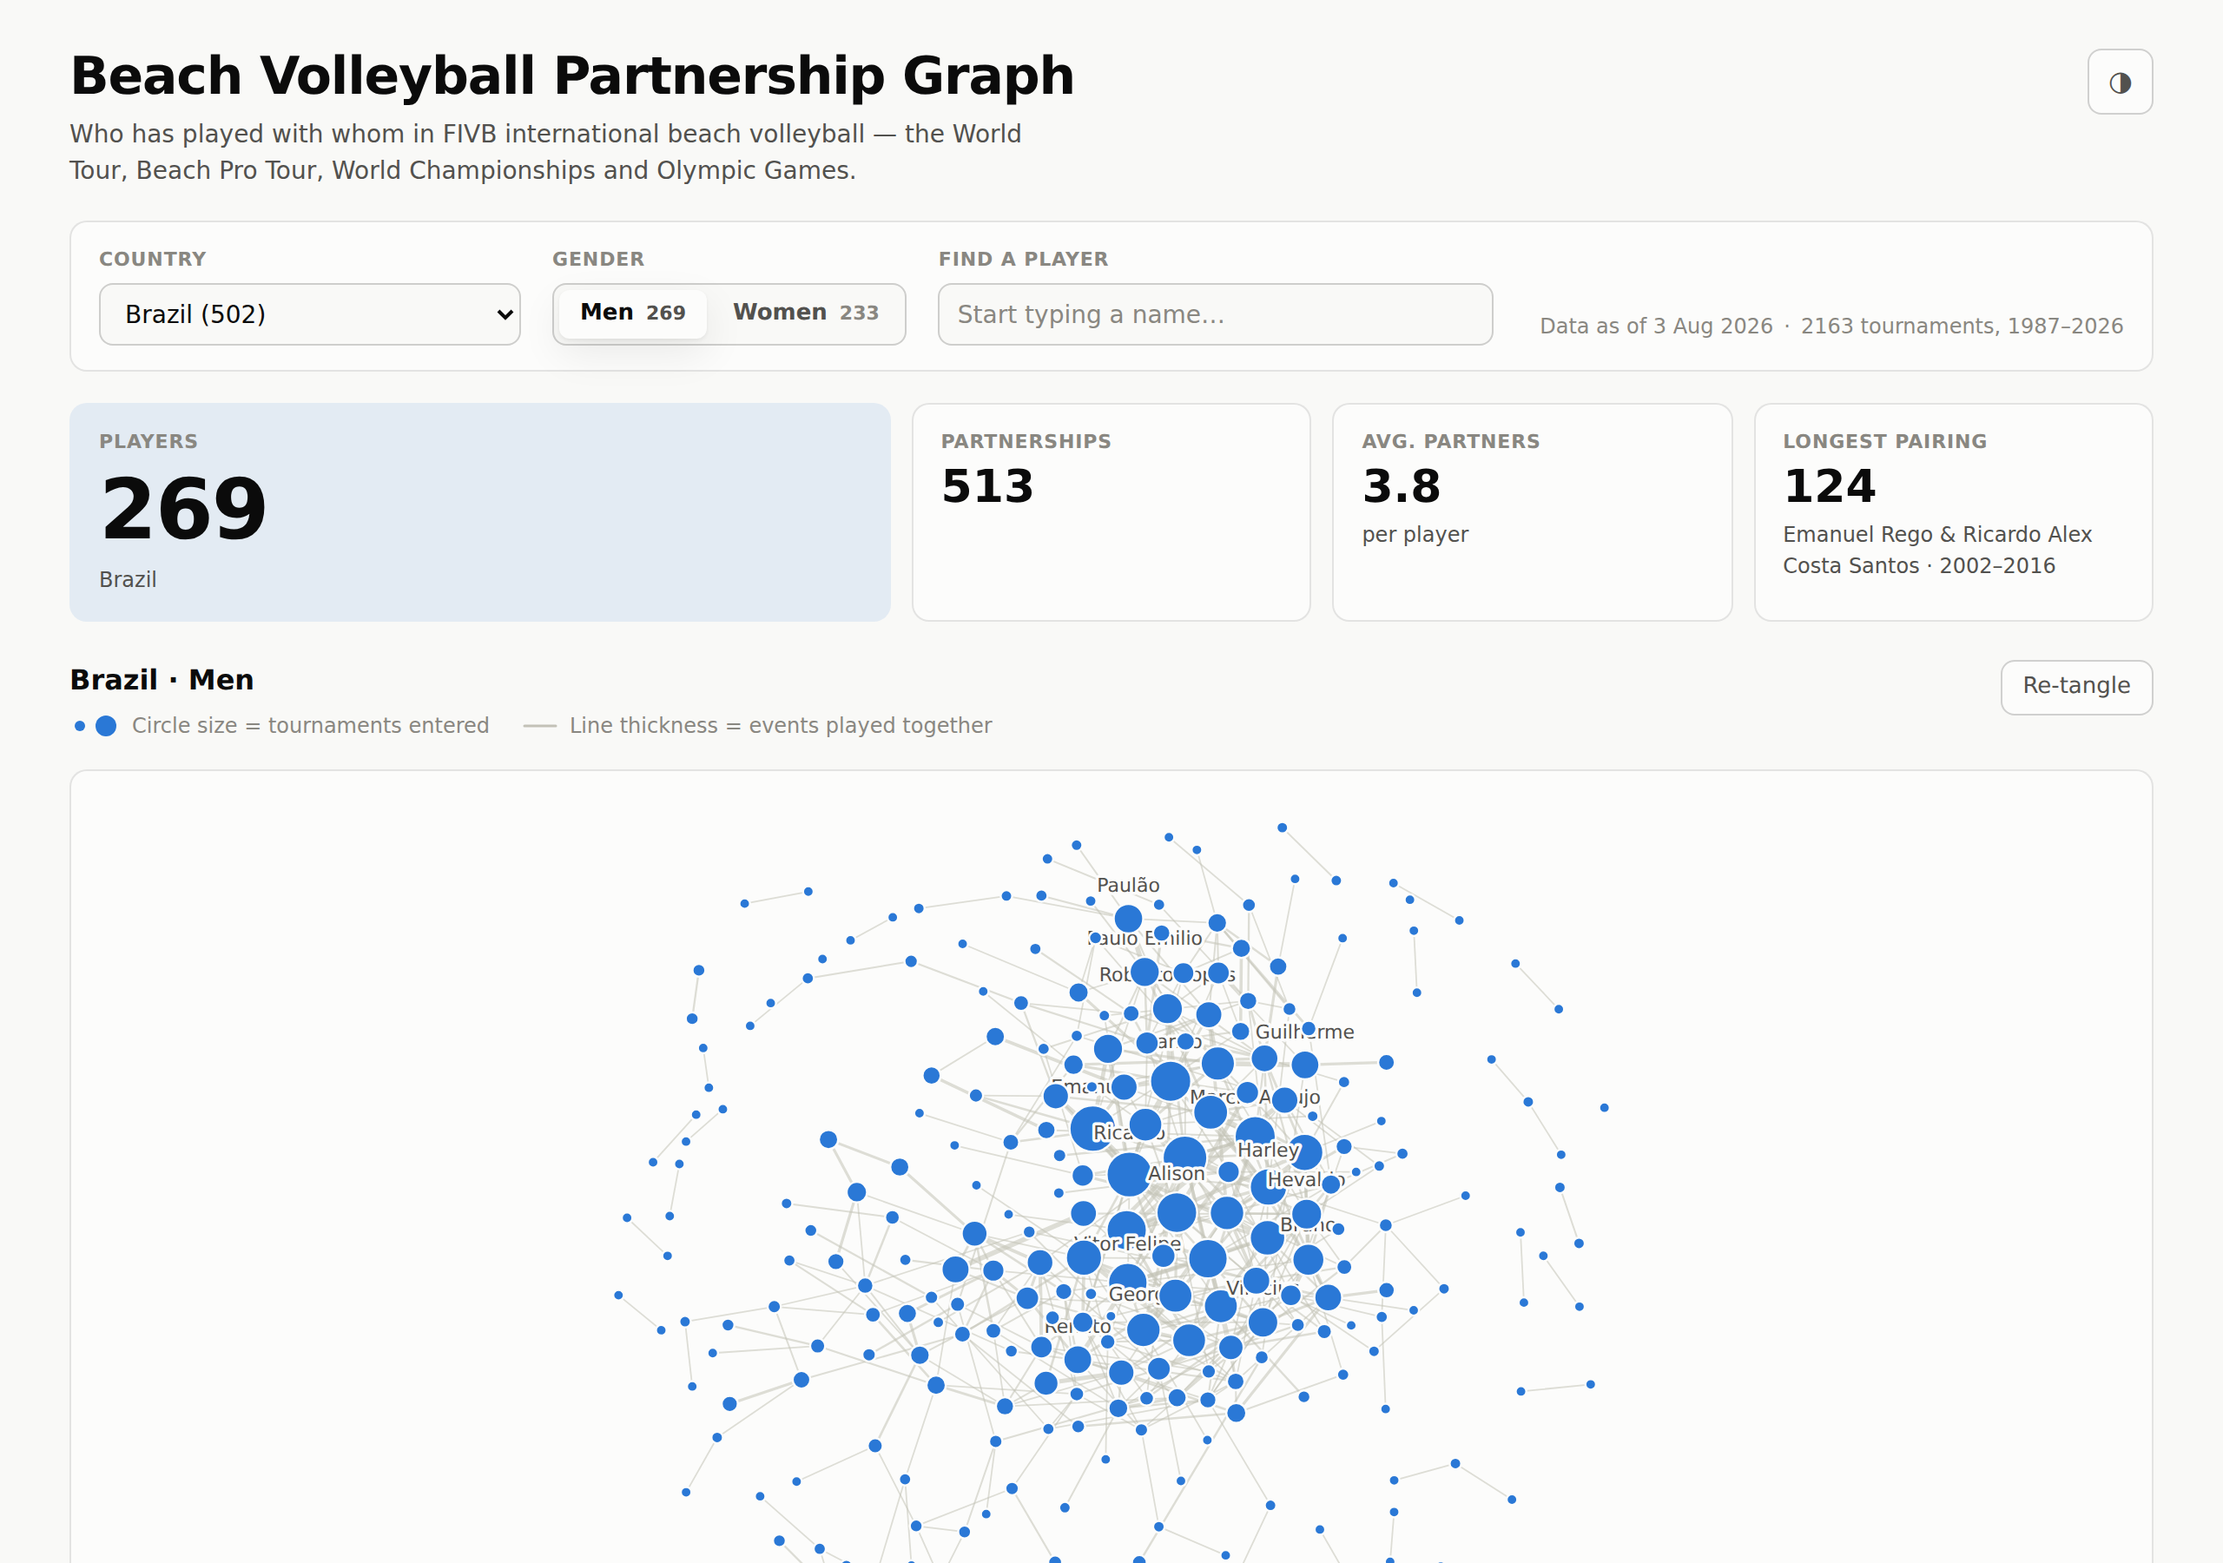
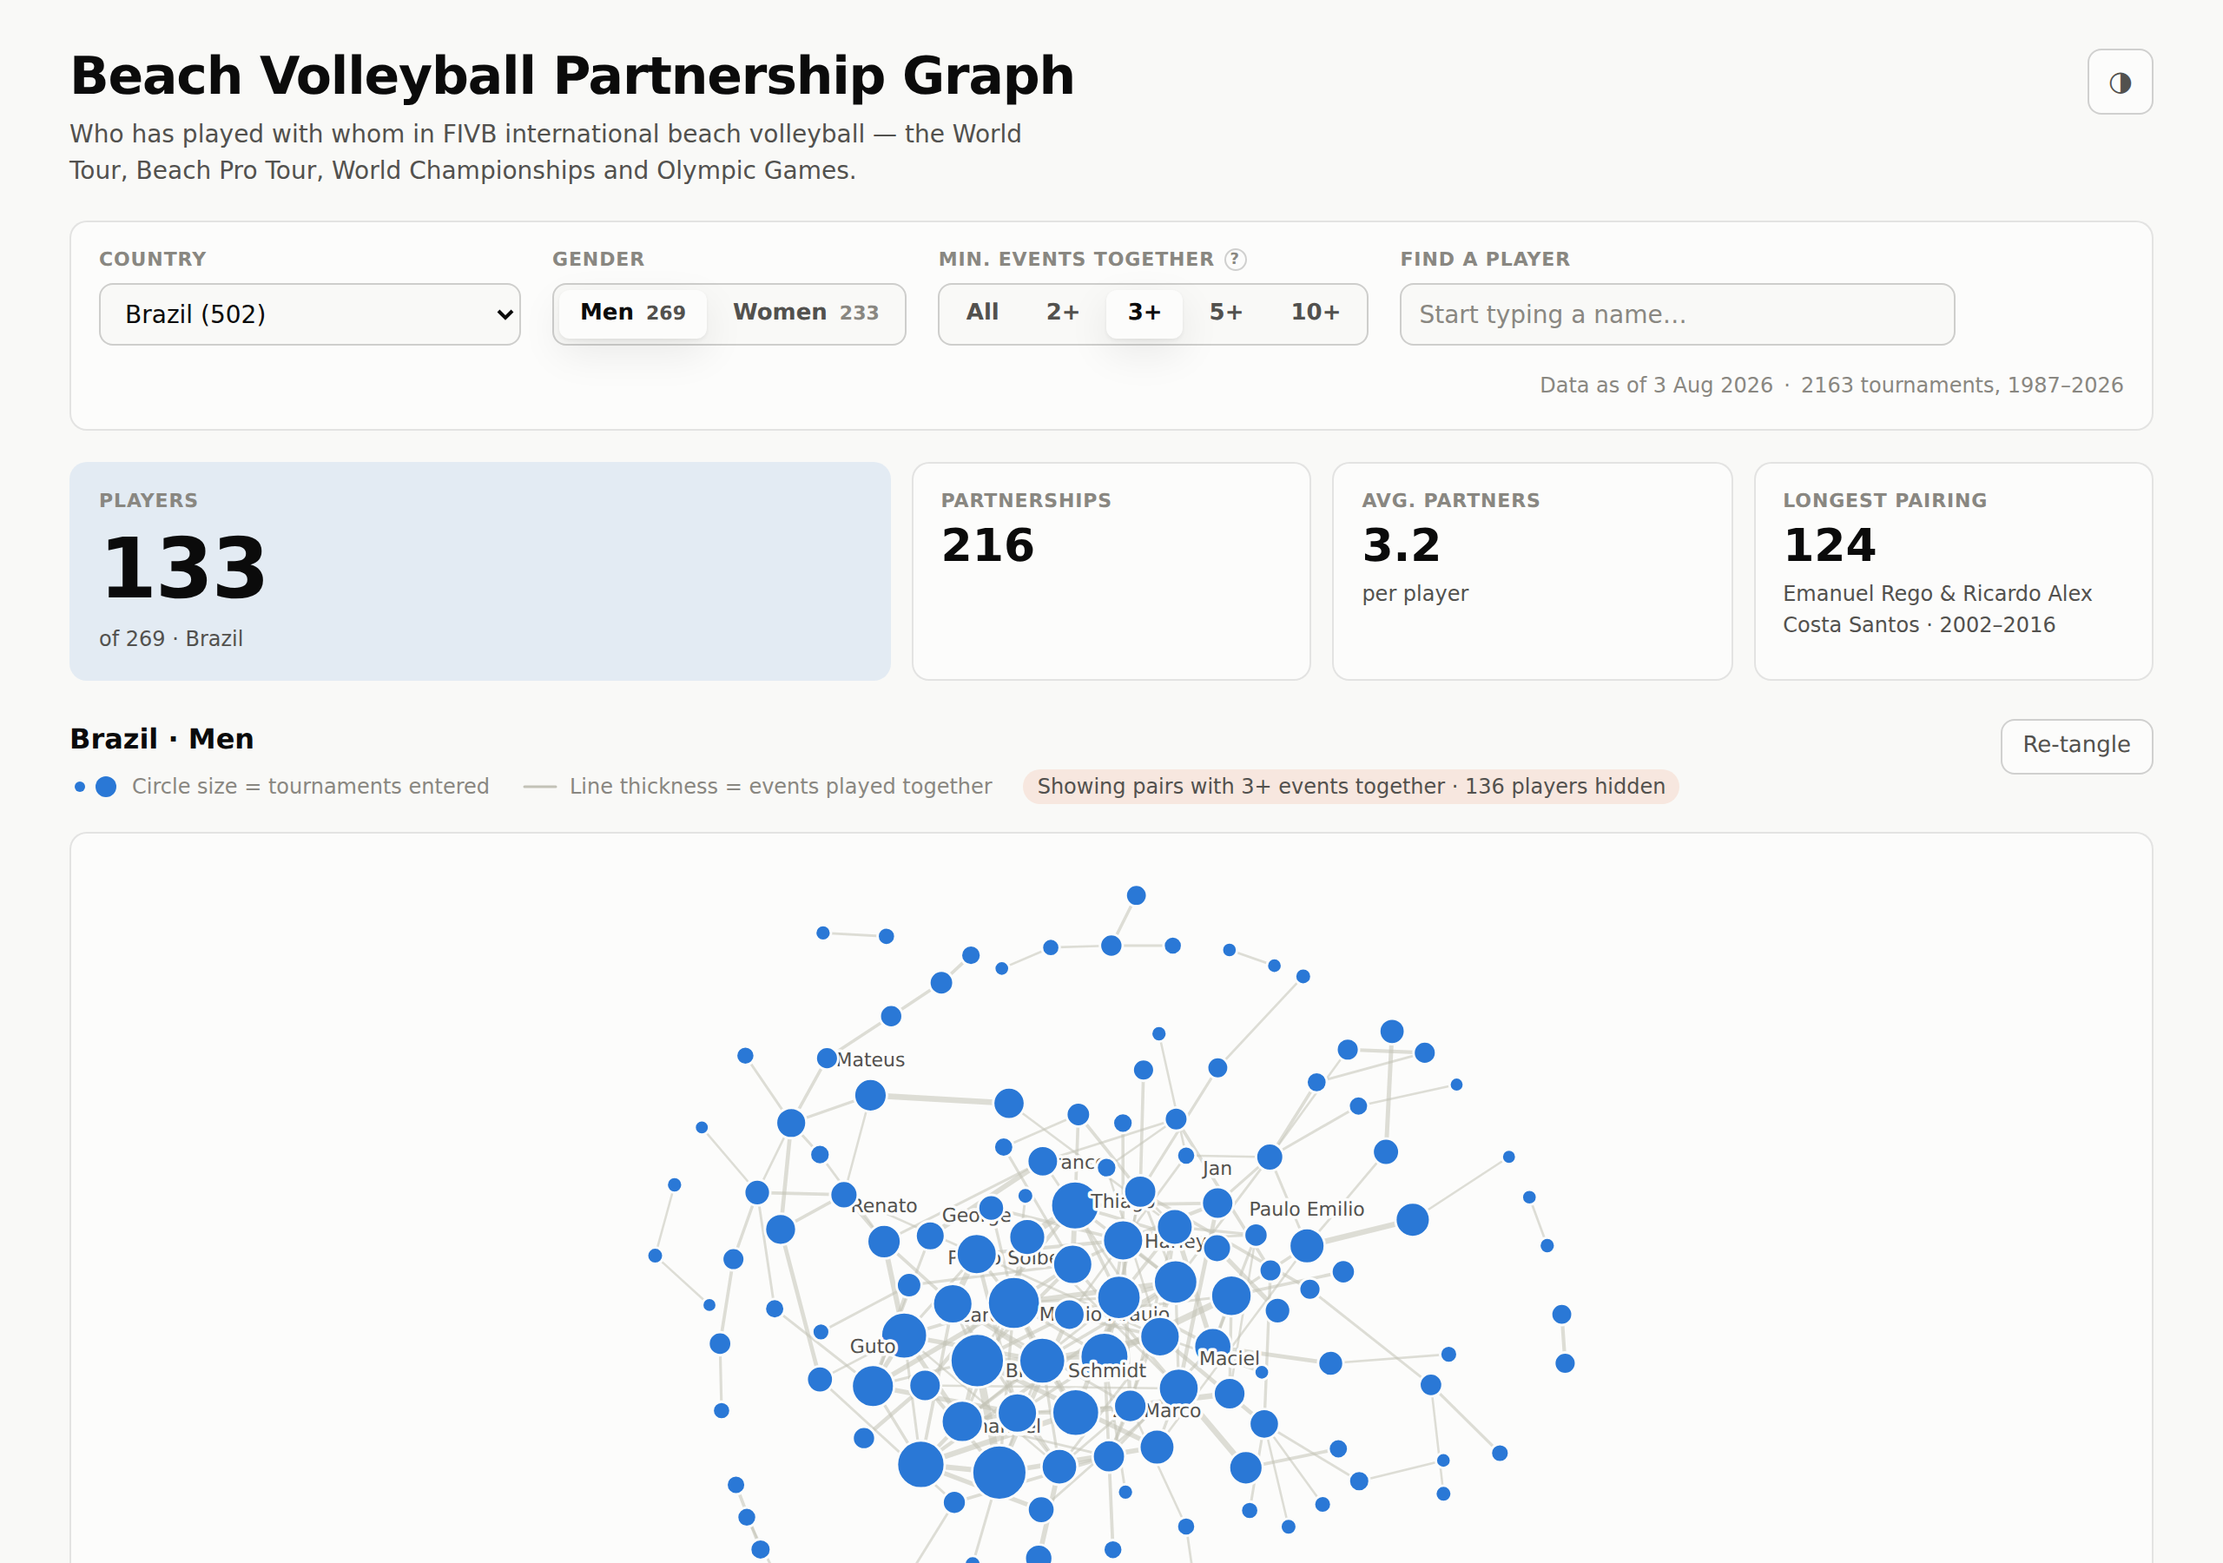
Add partnership-strength filter
Hide pairs below a threshold of shared tournaments, to strip one-off
partnerships from the graph. Presets: All / 2+ / 3+ / 5+ / 10+.

The archive is dominated by one-off entrants — 53.8% of players have
exactly one partner and 37.4% entered exactly one tournament ever, so the
median player has one partner and the global mean is only 2.4. Restricted
to players with 10+ tournaments the mean is 5.3, which is what the graph
looks like once the tail is filtered out.

Applied once in App and passed down, so graph, stat tiles, profile partner
lists and the table always agree. Players left with no remaining
partnership drop out too, otherwise raising the threshold just leaves a
field of unconnected dots. Node size still encodes each player's full
career tournament count — that is a property of the player, not of the
edges currently shown, and rescaling it on filter would misstate careers.

The threshold is reflected in the URL so a filtered view is linkable, and
a badge in the legend reports how many players are hidden.

diff --git a/web/src/App.tsx b/web/src/App.tsx
@@ -4,6 +4,7 @@ import { GENDERS } from './schema';
 import { fetchGraph, fetchManifest, fetchPlayers } from './lib/api';
 import { flagEmoji, plural } from './lib/format';
 import { Controls } from './components/Controls';
+import type { GraphEdge, GraphNode } from './schema';
 import { PartnershipGraph } from './components/PartnershipGraph';
 import { PlayerCard, type PartnerRow } from './components/PlayerCard';
 import { StatTiles, type Stat } from './components/StatTiles';
@@ -15,14 +16,21 @@ import './App.css';
 const DEFAULT_COUNTRY = 'BRA';
 
 /** Read/write the current slice in the URL so a view is linkable. */
-function readUrl(): { country: string | null; gender: Gender | null; player: number | null } {
+function readUrl(): {
+  country: string | null;
+  gender: Gender | null;
+  player: number | null;
+  min: number | null;
+} {
   const params = new URLSearchParams(location.search);
   const gender = params.get('gender');
   const player = Number(params.get('player'));
+  const min = Number(params.get('min'));
   return {
     country: params.get('country'),
     gender: gender === 'M' || gender === 'W' ? gender : null,
     player: Number.isFinite(player) && player > 0 ? player : null,
+    min: Number.isFinite(min) && min >= 1 ? min : null,
   };
 }
 
@@ -38,6 +46,8 @@ export default function App() {
   const [selectedId, setSelectedId] = useState<number | null>(initial.player);
   const [search, setSearch] = useState('');
   const [layoutKey, setLayoutKey] = useState(0);
+  /** Hide partnerships below this many shared tournaments. 1 = show all. */
+  const [minTogether, setMinTogether] = useState(initial.min ?? 1);
 
   // --- manifest ------------------------------------------------------------
   useEffect(() => {
@@ -97,19 +107,45 @@ export default function App() {
     const params = new URLSearchParams();
     params.set('country', country);
     params.set('gender', gender);
+    if (minTogether > 1) params.set('min', String(minTogether));
     if (selectedId) params.set('player', String(selectedId));
     history.replaceState(null, '', `?${params}`);
-  }, [country, gender, selectedId]);
+  }, [country, gender, selectedId, minTogether]);
 
   // --- derived -------------------------------------------------------------
+  /**
+   * The partnership-strength filter. Edges below the threshold are dropped, and
+   * players left with no remaining partnership drop out with them — otherwise
+   * raising the threshold just leaves a field of unconnected dots.
+   *
+   * Node size still reflects each player's full career tournament count: that
+   * is a property of the player, not of the edges being shown.
+   */
+  const { nodes: visibleNodes, edges: visibleEdges } = useMemo((): {
+    nodes: GraphNode[];
+    edges: GraphEdge[];
+  } => {
+    const allNodes = graph?.nodes ?? [];
+    const allEdges = graph?.edges ?? [];
+    if (minTogether <= 1) return { nodes: allNodes, edges: allEdges };
+
+    const edges = allEdges.filter((e) => e.t >= minTogether);
+    const connected = new Set<number>();
+    for (const e of edges) {
+      connected.add(e.a);
+      connected.add(e.b);
+    }
+    return { nodes: allNodes.filter((n) => connected.has(n.id)), edges };
+  }, [graph, minTogether]);
+
   const nodesById = useMemo(
-    () => new Map((graph?.nodes ?? []).map((n) => [n.id, n])),
-    [graph],
+    () => new Map(visibleNodes.map((n) => [n.id, n])),
+    [visibleNodes],
   );
 
   const partnersByPlayer = useMemo(() => {
     const map = new Map<number, PartnerRow[]>();
-    for (const edge of graph?.edges ?? []) {
+    for (const edge of visibleEdges) {
       const a = nodesById.get(edge.a);
       const b = nodesById.get(edge.b);
       if (!a || !b) continue;
@@ -120,7 +156,7 @@ export default function App() {
     }
     for (const list of map.values()) list.sort((x, y) => y.t - x.t || x.node.name.localeCompare(y.node.name));
     return map;
-  }, [graph, nodesById]);
+  }, [visibleEdges, nodesById]);
 
   const detailsById = useMemo(
     () => new Map((details?.players ?? []).map((p) => [p.id, p])),
@@ -132,17 +168,17 @@ export default function App() {
 
   const tableRows: TableRow[] = useMemo(() => {
     const term = search.trim().toLowerCase();
-    return (graph?.nodes ?? [])
+    return visibleNodes
       .filter((n) => !term || n.name.toLowerCase().includes(term))
       .map((n) => {
         const partners = partnersByPlayer.get(n.id) ?? [];
         return { ...n, partners: partners.length, topPartner: partners[0]?.node.name ?? null };
       });
-  }, [graph, partnersByPlayer, search]);
+  }, [visibleNodes, partnersByPlayer, search]);
 
   const stats: Stat[] = useMemo(() => {
-    const nodes = graph?.nodes ?? [];
-    const edges = graph?.edges ?? [];
+    const nodes = visibleNodes;
+    const edges = visibleEdges;
     if (nodes.length === 0) return [];
     const degrees = nodes.map((n) => (partnersByPlayer.get(n.id)?.length ?? 0));
     const avg = degrees.reduce((a, b) => a + b, 0) / nodes.length;
@@ -159,10 +195,16 @@ export default function App() {
         detail: longest ? `${longestNames} · ${longest.f}–${longest.l}` : undefined,
       },
     ];
-  }, [graph, partnersByPlayer, nodesById]);
+  }, [visibleNodes, visibleEdges, partnersByPlayer, nodesById]);
 
+  const totalNodes = graph?.nodes.length ?? 0;
+  const hidden = totalNodes - visibleNodes.length;
   const hero: Stat | undefined = graph
-    ? { label: 'Players', value: graph.nodes.length.toLocaleString(), detail: `${graph.countryName}` }
+    ? {
+        label: 'Players',
+        value: visibleNodes.length.toLocaleString(),
+        detail: hidden > 0 ? `of ${totalNodes.toLocaleString()} · ${graph.countryName}` : graph.countryName,
+      }
     : undefined;
 
   const selectedNode = selectedId === null ? null : (nodesById.get(selectedId) ?? null);
@@ -214,6 +256,8 @@ export default function App() {
           }}
           search={search}
           onSearch={setSearch}
+          minTogether={minTogether}
+          onMinTogether={setMinTogether}
         />
       )}
 
@@ -241,6 +285,12 @@ export default function App() {
                   </svg>
                   Line thickness = events played together
                 </span>
+                {hidden > 0 && (
+                  <span className="key filtered">
+                    Showing pairs with {minTogether}+ events together · {hidden.toLocaleString()}{' '}
+                    {hidden === 1 ? 'player' : 'players'} hidden
+                  </span>
+                )}
               </p>
             </div>
             <button type="button" className="relayout" onClick={() => setLayoutKey((k) => k + 1)}>
@@ -248,16 +298,20 @@ export default function App() {
             </button>
           </div>
 
-          {graph && graph.nodes.length > 0 ? (
+          {visibleNodes.length > 0 ? (
             <PartnershipGraph
-              nodes={graph.nodes}
-              edges={graph.edges}
+              nodes={visibleNodes}
+              edges={visibleEdges}
               selectedId={selectedId}
               onSelect={selectPlayer}
               layoutKey={layoutKey}
             />
           ) : (
-            <div className="graph-empty">No players for this selection.</div>
+            <div className="graph-empty">
+              {totalNodes > 0
+                ? `No partnership here reaches ${minTogether} shared tournaments.`
+                : 'No players for this selection.'}
+            </div>
           )}
 
           {selectedNode && (

diff --git a/web/src/components/Controls.tsx b/web/src/components/Controls.tsx
@@ -9,6 +9,9 @@ import { GENDER_LABEL, GENDERS } from '../schema';
 import { plural } from '../lib/format';
 import './Controls.css';
 
+/** Presets for the partnership-strength threshold. */
+export const MIN_TOGETHER_OPTIONS = [1, 2, 3, 5, 10] as const;
+
 interface Props {
   manifest: Manifest;
   country: string;
@@ -17,9 +20,21 @@ interface Props {
   onGender: (gender: Gender) => void;
   search: string;
   onSearch: (value: string) => void;
+  minTogether: number;
+  onMinTogether: (value: number) => void;
 }
 
-export function Controls({ manifest, country, gender, onCountry, onGender, search, onSearch }: Props) {
+export function Controls({
+  manifest,
+  country,
+  gender,
+  onCountry,
+  onGender,
+  search,
+  onSearch,
+  minTogether,
+  onMinTogether,
+}: Props) {
   const selected = manifest.countries.find((c) => c.code === country);
 
   return (
@@ -58,6 +73,28 @@ export function Controls({ manifest, country, gender, onCountry, onGender, searc
               </button>
             );
           })}
+        </div>
+      </div>
+
+      <div className="field">
+        <span id="min-together-label">
+          Min. events together
+          <em title="Partnerships below this many shared tournaments are hidden — use it to strip one-off pairings.">
+            ?
+          </em>
+        </span>
+        <div className="segmented" role="group" aria-labelledby="min-together-label">
+          {MIN_TOGETHER_OPTIONS.map((n) => (
+            <button
+              key={n}
+              type="button"
+              className={n === minTogether ? 'is-selected' : ''}
+              aria-pressed={n === minTogether}
+              onClick={() => onMinTogether(n)}
+            >
+              {n === 1 ? 'All' : `${n}+`}
+            </button>
+          ))}
         </div>
       </div>
 

diff --git a/web/src/components/Controls.css b/web/src/components/Controls.css
@@ -22,11 +22,27 @@
 }
 
 .controls .field > span {
+  display: flex;
+  align-items: center;
+  gap: 5px;
   color: var(--text-muted);
   font-size: 11px;
   font-weight: 600;
   text-transform: uppercase;
   letter-spacing: 0.04em;
+}
+
+/* Inline help marker on the threshold control. */
+.controls .field > span em {
+  display: grid;
+  place-items: center;
+  width: 13px;
+  height: 13px;
+  border: 1px solid var(--border-strong);
+  border-radius: 50%;
+  font-size: 9px;
+  font-style: normal;
+  cursor: help;
 }
 
 .controls select,

diff --git a/web/src/App.css b/web/src/App.css
@@ -117,6 +117,13 @@ main.is-loading {
   gap: 6px;
 }
 
+.legend .filtered {
+  padding: 1px 8px;
+  border-radius: 999px;
+  background: var(--series-2-wash);
+  color: var(--text-secondary);
+}
+
 .key-dot {
   fill: var(--series-1);
 }

diff --git a/README.md b/README.md
@@ -7,7 +7,7 @@ Data comes from the official [FIVB VIS Web Service][vis] and is rebuilt weekly.
 
 [vis]: https://www.fivb.org/VisSDK/VisWebService/
 
-![Partnership graph for Brazil, men](docs/screenshot.png)
+![Partnership graph for Brazil, men, filtered to pairs with 3+ shared tournaments](docs/screenshot.png)
 
 ---
 
@@ -71,6 +71,24 @@ incremental cache — a full rebuild every week is cheap and self-healing.
   an Argentine appears in neither country's graph. Measured against the live
   archive that is ~1% of all partnerships.
 
+### Why the default graph looks so sparse
+
+Across the whole dataset the mean is only 2.4 partners per player — but the
+median player has **one** partner and **two** tournaments, because the archive
+is dominated by one-off entrants:
+
+| Population | Players | Mean partners | Median |
+|---|---:|---:|---:|
+| Everyone | 15,628 | 2.4 | 1 |
+| ≥3 tournaments | 7,634 | 3.8 | 3 |
+| ≥10 tournaments | 3,821 | 5.3 | 5 |
+| ≥50 tournaments | 1,279 | 7.4 | 7 |
+
+53.8% of players have exactly one partner and 37.4% entered exactly one
+tournament, ever. Career players behave the way you would expect — around five
+partners — and the **Min. events together** filter is the quickest way to see
+only them.
+
 ## Published data contract
 
 Everything under `/v1/` is static JSON:
@@ -94,8 +112,13 @@ coordinated deploy.
 
 ## Reading the graph
 
-- **Circle size** — tournaments entered (area-proportional).
+- **Circle size** — tournaments that player entered, area-proportional. (Not
+  their partner count — that is in the tooltip and the table.)
 - **Line thickness** — events that pair played together.
+- **Min. events together** — hides partnerships below the threshold, and the
+  players left with no remaining partnership. Node size still reflects each
+  player's full career, because that is a property of the player rather than of
+  the edges on screen.
 - **Hover or focus a player** to highlight their partners; **click** for the
   full profile.
 - Drag to pan, scroll to zoom, `Fit` to reframe.
